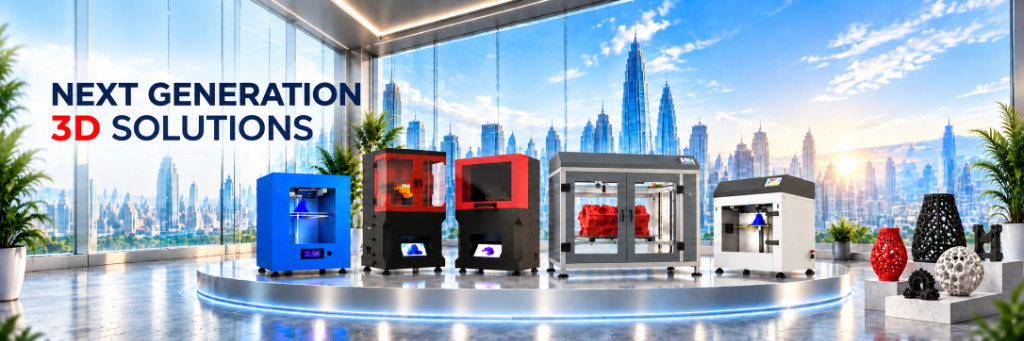
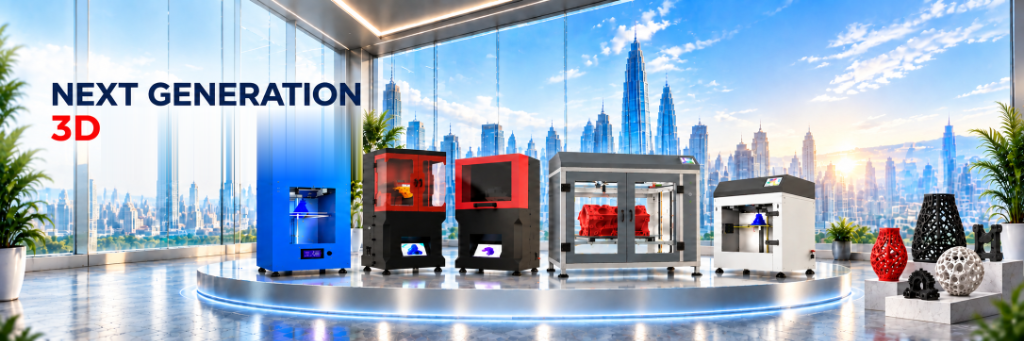
feat: change heading to 3D Printing Technology, organize FDM products with Pratham Mini, and ensure clean product naming

Changed region(s): [[0.0938, 0.3226, 0.375, 0.5279]]

diff --git a/src/pages/HomePage.tsx b/src/pages/HomePage.tsx
@@ -23,15 +23,15 @@ export const HomePage: React.FC = () => {
     {
       id: 1,
       image: '/hero-banner-1.png',
-      alt: 'Next Generation 3D Solutions — Leniva CAD Solutions',
-      title: 'Next Generation 3D Solutions',
+      alt: '3D Printing Technology — Leniva CAD Solutions',
+      title: '3D Printing Technology',
       subtitle: 'Powering Creativity, Enabling Industry',
       tag: 'Design • Prototype • Manufacture',
       badge: 'Full Additive Ecosystem',
       primaryBtnText: 'Explore 3D Printers',
       primaryBtnLink: '/products',
       secondaryBtnText: 'Request Quote',
-      quoteSubject: 'Next Generation 3D Solutions Consultation',
+      quoteSubject: '3D Printing Technology Consultation',
     },
     {
       id: 2,
@@ -89,7 +89,7 @@ export const HomePage: React.FC = () => {
                     }`}
                   >
                     <img
-                      src={`${slide.image}?v=hd_master_3`}
+                      src={`${slide.image}?v=tech_master_1`}
                       alt={slide.alt}
                       className="w-full h-full object-contain bg-white select-none"
                       loading="eager"
@@ -102,6 +102,27 @@ export const HomePage: React.FC = () => {
                         transform: 'translateZ(0)',
                       }}
                     />
+
+                    {/* Precise Vector Typography for Slide 1 (3D TECHNOLOGY) */}
+                    {slide.id === 1 && (
+                      <svg
+                        viewBox="0 0 1024 341"
+                        className="absolute inset-0 w-full h-full pointer-events-none select-none z-10"
+                        style={{ overflow: 'visible' }}
+                      >
+                        <text
+                          x="114"
+                          y="159"
+                          fill="#0c1e3d"
+                          fontFamily="'Montserrat', 'Inter', system-ui, -apple-system, sans-serif"
+                          fontWeight="900"
+                          fontSize="43"
+                          letterSpacing="0.5"
+                        >
+                          TECHNOLOGY
+                        </text>
+                      </svg>
+                    )}
                   </div>
                 )
               })}

diff --git a/src/components/ShowroomSolutionsSection.tsx b/src/components/ShowroomSolutionsSection.tsx
@@ -61,9 +61,9 @@ const showcaseCategories: ShowcaseCategorySection[] = [
   {
     id: 'fdm',
     categoryTag: 'EXPLORE OUR',
-    titlePrimary: '3D PRINTING',
+    titlePrimary: 'FDM 3D PRINTING',
     titleAccent: 'TECHNOLOGY',
-    subtitle: 'Industrial-grade FDM, DLP & LCD 3D printers for prototyping, production and real-world applications.',
+    subtitle: 'Industrial-grade FDM 3D printers for functional prototyping, production tooling and large-format manufacturing.',
     catalogLink: '/products/fdm-3d-printers',
     catalogText: 'View All FDM Printers',
     accentColor: '#dc2626',
@@ -123,6 +123,23 @@ const showcaseCategories: ShowcaseCategorySection[] = [
           { icon: Clock, label: '24/7 Continuous Duty' },
           { icon: Target, label: 'Auto Mesh Leveling' },
           { icon: Box, label: 'All-Metal Hotend 300°C' },
+        ],
+      },
+      {
+        id: 'pratham-mini',
+        name: 'Pratham',
+        nameAccent: 'Mini',
+        subtitle: 'Compact Learning & Prototyping FDM',
+        description: 'Compact educational and lab 3D printing system with flexible magnetic PEI bed and quiet motor drivers.',
+        modelsCount: '170 × 170 × 170 mm',
+        badgeLabel: 'Compact Series',
+        image: '/images/products/pratham-mini.png',
+        link: '/products/pratham-mini',
+        quoteInquiry: 'Pratham Mini FDM Inquiry',
+        features: [
+          { icon: Sparkles, label: 'Flexible Magnetic PEI' },
+          { icon: Target, label: '0.1mm Precision Layer' },
+          { icon: ShieldCheck, label: 'Power-Loss Resume' },
         ],
       },
       {
